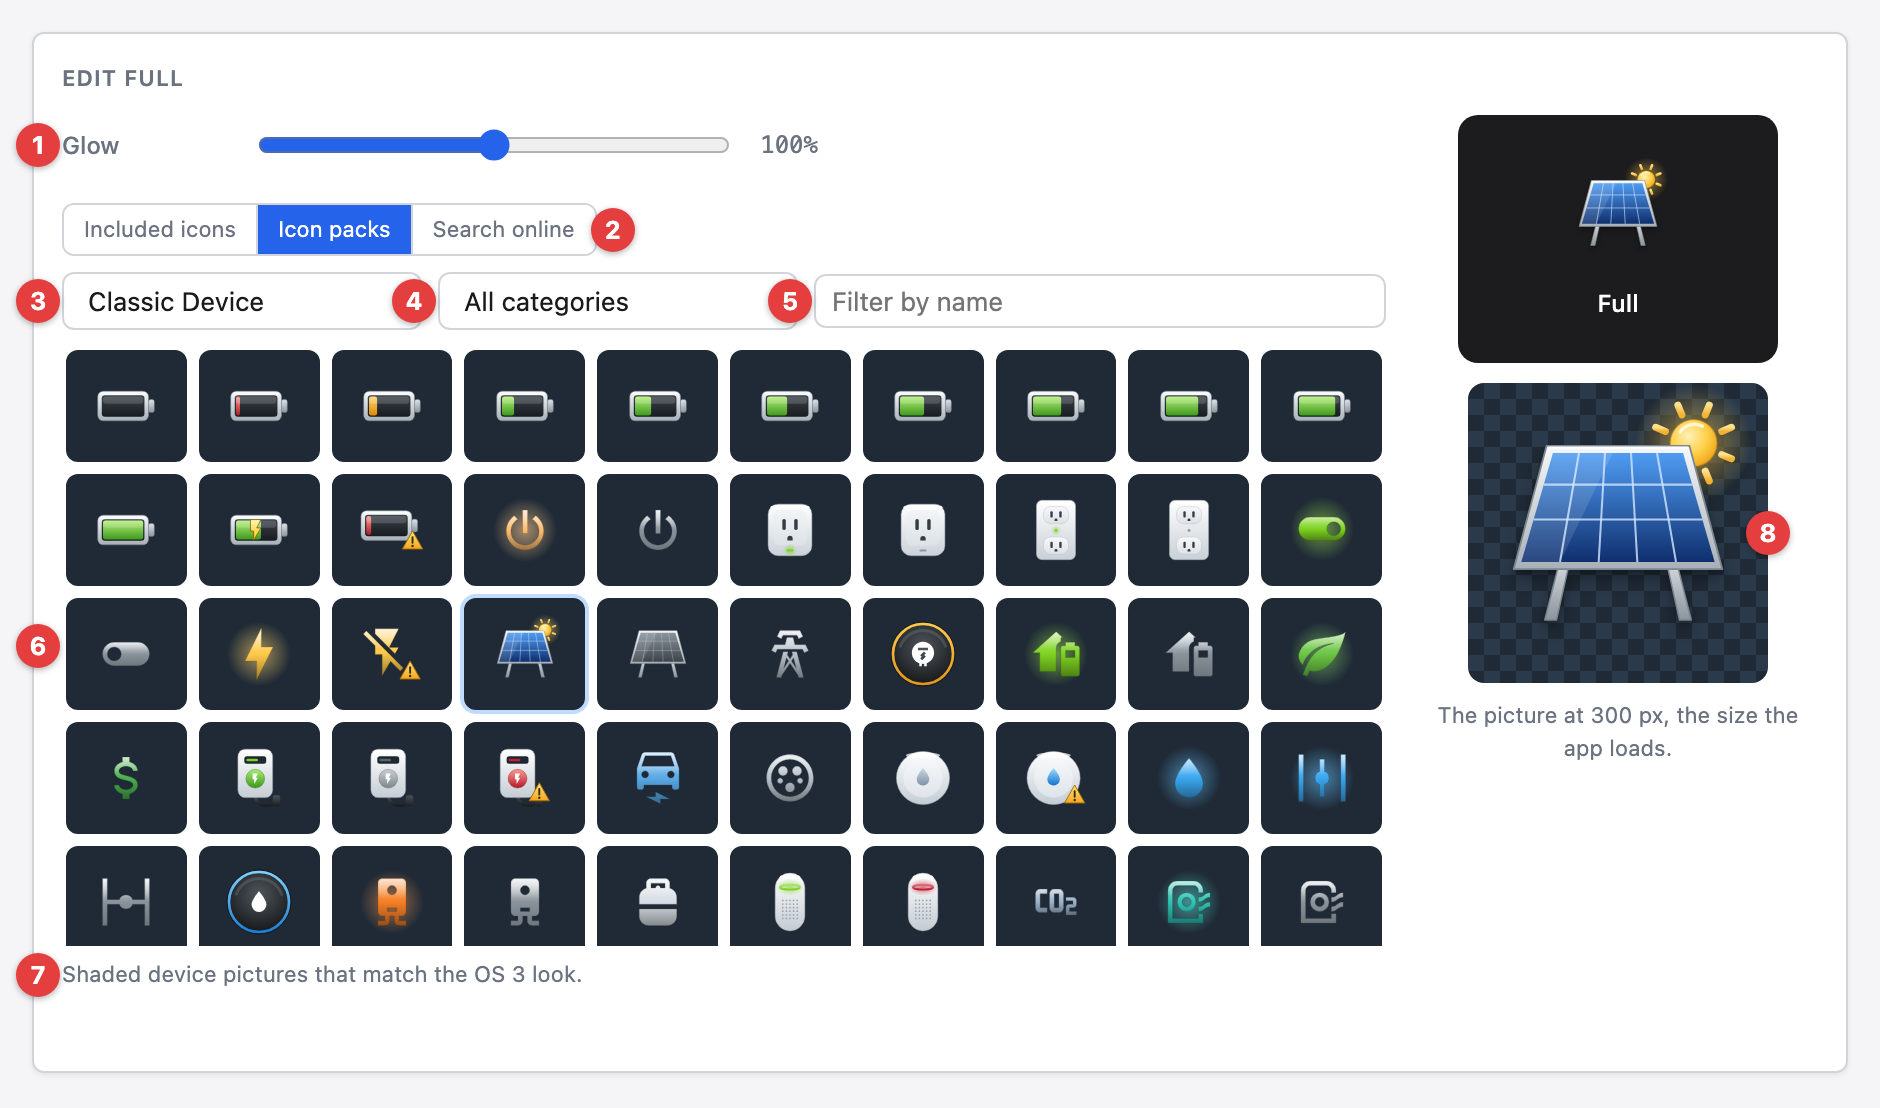
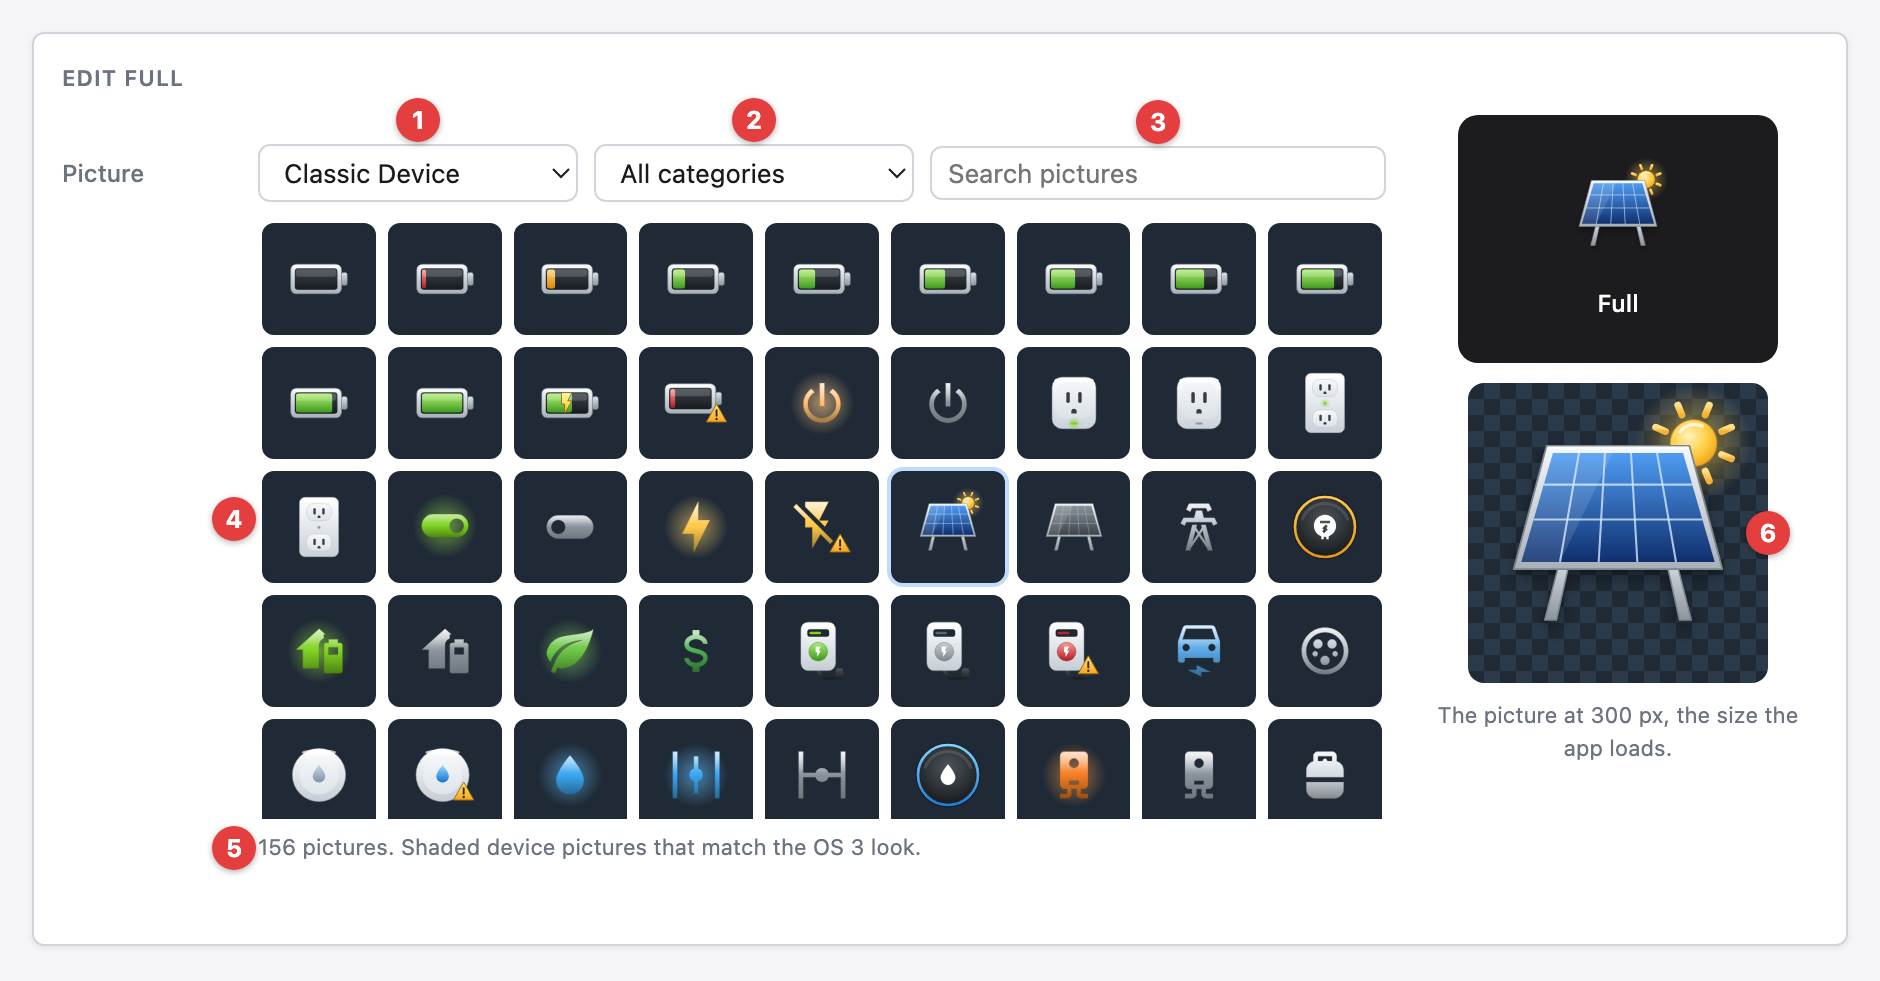
docs: regenerate README

diff --git a/README.md b/README.md
@@ -29,8 +29,9 @@ the programming you attach to it.
   - [The Button Tab](#the-button-tab)
     - [Looks](#looks)
     - [Look Editor](#look-editor)
+    - [Customize](#customize)
     - [Icon Packs](#icon-packs)
-    - [Icon Search](#icon-search)
+    - [Free Icon Libraries](#free-icon-libraries)
     - [Properties](#properties)
   - [Cycling Through Looks](#cycling-through-looks)
   - [Driver Setup](#driver-setup)
@@ -131,31 +132,66 @@ the button's looks.
 <img alt="Button tab - Look Editor" src="./images/ui-look-editor.png" width="640"/>
 
 1. **Name** - the look's name in programming: up to 40 characters, without
-   commas, and different from the button's other looks. Picking an icon fills it
-   in when it is empty.
+   commas, and different from the button's other looks. Picking a picture fills
+   it in when it is empty.
 1. **Tile shape** - `None`, `Circle`, `Rounded Square` or `Square`. With `None`
    the icon is drawn on its own, larger, and `Tile color` is hidden.
 1. **Icon color** - the color the icon is drawn in.
 1. **Tile color** - the color of the tile behind the icon.
+1. **Cycle** - with `In cycle` off, presses, Next Look and Previous Look pass
+   over the look. Show Look can still show it.
+1. **Picture** - where the picture comes from: `All included`, the default, one
+   of the driver's three icon packs (see [Icon Packs](#icon-packs)),
+   `Basic icons`, or `Free icon libraries` online (see
+   [Free Icon Libraries](#free-icon-libraries)). Everything but the libraries
+   works with no internet.
+1. **All categories** - narrows the pictures to one subject group.
+1. **Search pictures** - narrows the pictures by name as you type.
+1. **Pictures** - select one to use it for the look.
+1. **Search free icon libraries** - looks for the same words in the free icon
+   libraries online, when the included pictures don't have what you need.
+1. **Icon** - the picked picture and its license.
+1. **Preview** - the look as the Control4 app shows it.
+1. **The picture at 300 px** - the picture the driver keeps, at the size the app
+   loads.
+1. **Save Look / Cancel** - `Save Look` saves the look and sends its picture to
+   the driver. A look renamed without other changes keeps its picture. The
+   button's first look shows as soon as its picture arrives.
+
+### Customize
+
+<img alt="Button tab - Customize" src="./images/ui-customize.png" width="640"/>
+
+`Customize`, under the picture, changes the look's picture before it is saved.
+It shows only what the picked picture can use, and opens by itself on a look
+that changes its picture.
+
+1. **Reset to the pack's look** - puts the picture back as it comes: no changes,
+   its own glow and in color. For a basic or library icon it reads
+   `Reset to the icon's look`.
+1. **Color** - the picture's color, for a Classic Device or Modern picture. Its
+   shading stays, and the charging bolt, the warning mark and the sun keep
+   theirs. A Classic Tile picture shows `Tile` and `Symbol` here instead, the
+   colors of its tile and its symbol.
+1. **Body** - tints the metal or plastic of a Classic Device drawing.
+1. **Glow** - the picture's glow, from none through its own at `100%` to twice
+   as strong at `200%`. It shows for the Classic Device pictures that glow, and
+   is hidden while `Grayscale` is on.
+1. **Glow color** - the glow's color. Where the glow belongs to the colored part
+   it follows `Color` until set here.
 1. **Grayscale** - draws the picture in grays, its tile too, which gives any
    picture a gray version for an off look beside the packs' own on and off
    pictures. A gray picture has no glow, and the look keeps its `Glow` setting
    for when `Grayscale` is turned off again.
-1. **Cycle** - with `In cycle` off, presses, Next Look and Previous Look pass
-   over the look. Show Look can still show it.
-1. **Included icons / Icon packs / Search online** - picks from the icons
-   included with the driver, which work with no internet, from the driver's
-   three icon packs (see [Icon Packs](#icon-packs)), or from the free icon packs
-   online (see [Icon Search](#icon-search)).
-1. **All categories / Filter by name** - narrow the included icons by category
-   and by name.
-1. **Icons** - select one to use it for the look.
-1. **Icon** - the picked icon and its license.
-1. **Preview** - the look as the Control4 app shows it.
-1. **Picture** - the picture the driver keeps, at the 300 pixels the app loads.
-1. **Save Look / Cancel** - `Save Look` saves the look and sends its picture to
-   the driver. A look renamed without other changes keeps its picture. The
-   button's first look shows as soon as its picture arrives.
+1. **Size** - the picture's size, from `50%` to `100%`.
+1. **Position** - moves the picture 2% at a time, up to 10% each way, and stops
+   where a Classic picture's shadow would run out of room. `Center` puts it
+   back.
+1. **Badge** - up to 5 characters drawn over the picture. Empty means no badge.
+1. **Place** - `Top Right`, `Bottom Right` or `Under` the picture.
+1. **Text color** - the color of the badge's text.
+1. **Background** - the badge's color, or `None` for the text alone. A gray
+   picture keeps its badge's colors.
 
 ### Icon Packs
 
@@ -168,30 +204,31 @@ temperature and humidity, devices, appliances, status, home modes, holidays and
 weather. A subject with states has a picture for each: on, off and alert where
 one applies. They work with no internet.
 
-1. **Glow** - the picture's glow, from none through its own at `100%` to twice
-   as strong at `200%`. It shows for the Classic Device pictures that glow, and
-   is hidden while `Grayscale` is on.
-1. **Icon packs** - shows the packs instead of the included icons.
-1. **Classic Device / Classic Tile / Modern** - the pack to show.
-   `Classic Device` is shaded device pictures and `Classic Tile` is a white
-   symbol on a colored tile, both matching the OS 3 look. `Modern` is outline
-   icons when off and filled, colored icons when on, matching the X4 look.
+1. **Classic Device / Classic Tile / Modern** - the pack to show, in the
+   `Picture` list. `Classic Device` is shaded device pictures and `Classic Tile`
+   is a white symbol on a colored tile, both matching the OS 3 look. `Modern` is
+   outline icons when off and filled, colored icons when on, matching the X4
+   look. `All included` shows all three with the basic icons.
 1. **All categories** - narrows the pictures to one subject group.
-1. **Filter by name** - narrows the pictures by name.
+1. **Search pictures** - narrows the pictures by name.
 1. **Pictures** - select one to use it for the look. The look is named after it
    when the name is empty.
-1. **Pack note** - what the chosen pack looks like.
-1. **Picture** - a pack picture keeps its own colors, so `Tile shape`,
-   `Icon color` and `Tile color` are hidden for it, and the picture shows on a
-   dark background. The Classic packs add the soft shadow the OS 3 look has.
+1. **Pack note** - how many pictures show, and what the pack looks like.
+1. **The picture at 300 px** - a pack picture keeps its own colors, so
+   `Tile shape`, `Icon color` and `Tile color` are hidden for it, and the
+   picture shows on a dark background. The Classic packs add the soft shadow the
+   OS 3 look has. [Customize](#customize) can change its colors.
 
-### Icon Search
+### Free Icon Libraries
 
-<img alt="Button tab - Icon Search" src="./images/ui-icon-search.png" width="640"/>
+<img alt="Button tab - Free Icon Libraries" src="./images/ui-icon-search.png" width="640"/>
 
+1. **Free icon libraries** - in the `Picture` list: searches free icon libraries
+   online, for an icon the included pictures don't have.
 1. **Search** - searches the packs chosen under `Packs` for icons whose names
-   match. If the computer running Composer cannot reach the icon service, the
-   search goes through the controller.
+   match the words in the search box, on `Search` or Enter. If the computer
+   running Composer cannot reach the icon service, the search goes through the
+   controller.
 1. **Style** - `Any`, `Outline` or `Filled`. Shows only the outline or the
    filled icons among those found, as each pack marks them in its icon names. An
    icon whose name does not say shows under both. It filters the icons found
@@ -356,11 +393,13 @@ The included icons and the icon packs are drawn from these collections:
 The Classic Device pictures are our own drawings, most built around a Material
 Design Icons symbol. The Classic Tile pictures use Material Design Icons
 symbols, and the Modern pictures use Lucide, Tabler Icons and Material Design
-Icons symbols. The driver includes these notices and the full license texts in
-its `LICENSES.txt` file.
+Icons symbols. A badge's text is drawn in
+[Roboto](https://github.com/googlefonts/roboto), under the
+[Apache 2.0](https://www.apache.org/licenses/LICENSE-2.0) license. The driver
+includes these notices and the full license texts in its `LICENSES.txt` file.
 
-**Search online** uses the free [Iconify](https://iconify.design) service and
-offers only these packs, whose licenses allow their icons to be used without
+**Free icon libraries** uses the free [Iconify](https://iconify.design) service
+and offers only these packs, whose licenses allow their icons to be used without
 credit on each one:
 
 | Pack                   | License                                                       |
@@ -429,13 +468,17 @@ Template for a new release entry (copy below the heading, fill in, uncomment):
   look that presses and both commands pass over when it is off
 - Added an event for each look, named for the look, that fires when it becomes
   the shown look
-- Added three icon packs with the same 100 subjects in each, picked from the
-  Button tab's Icon packs view: Classic Device and Classic Tile, which match the
-  OS 3 look, and Modern, which matches the X4 look, with on, off and alert
-  pictures where a subject has states
+- Added three icon packs with the same 100 subjects in each: Classic Device and
+  Classic Tile, which match the OS 3 look, and Modern, which matches the X4
+  look, with on, off and alert pictures where a subject has states
+- Added one picture list to the look editor, with a source, a category and a
+  search across the packs, the included icons and, when asked, the free icon
+  libraries online
 - Added Glow and Grayscale to each look: Glow sets a Classic Device picture's
   glow from none to twice its own, and Grayscale draws any picture in grays with
   no glow, its gray version beside the packs' own on and off pictures
+- Added Customize to each look: the picture's colors with its shading kept, the
+  glow's color, its size and position, and a badge of up to five characters
 - Added the driver's properties to the Button tab, where they can be changed as
   in Composer's Properties tab, with Look Control beside the shown button
 - Added DriverCentral licensing: without an active license the button shows the
